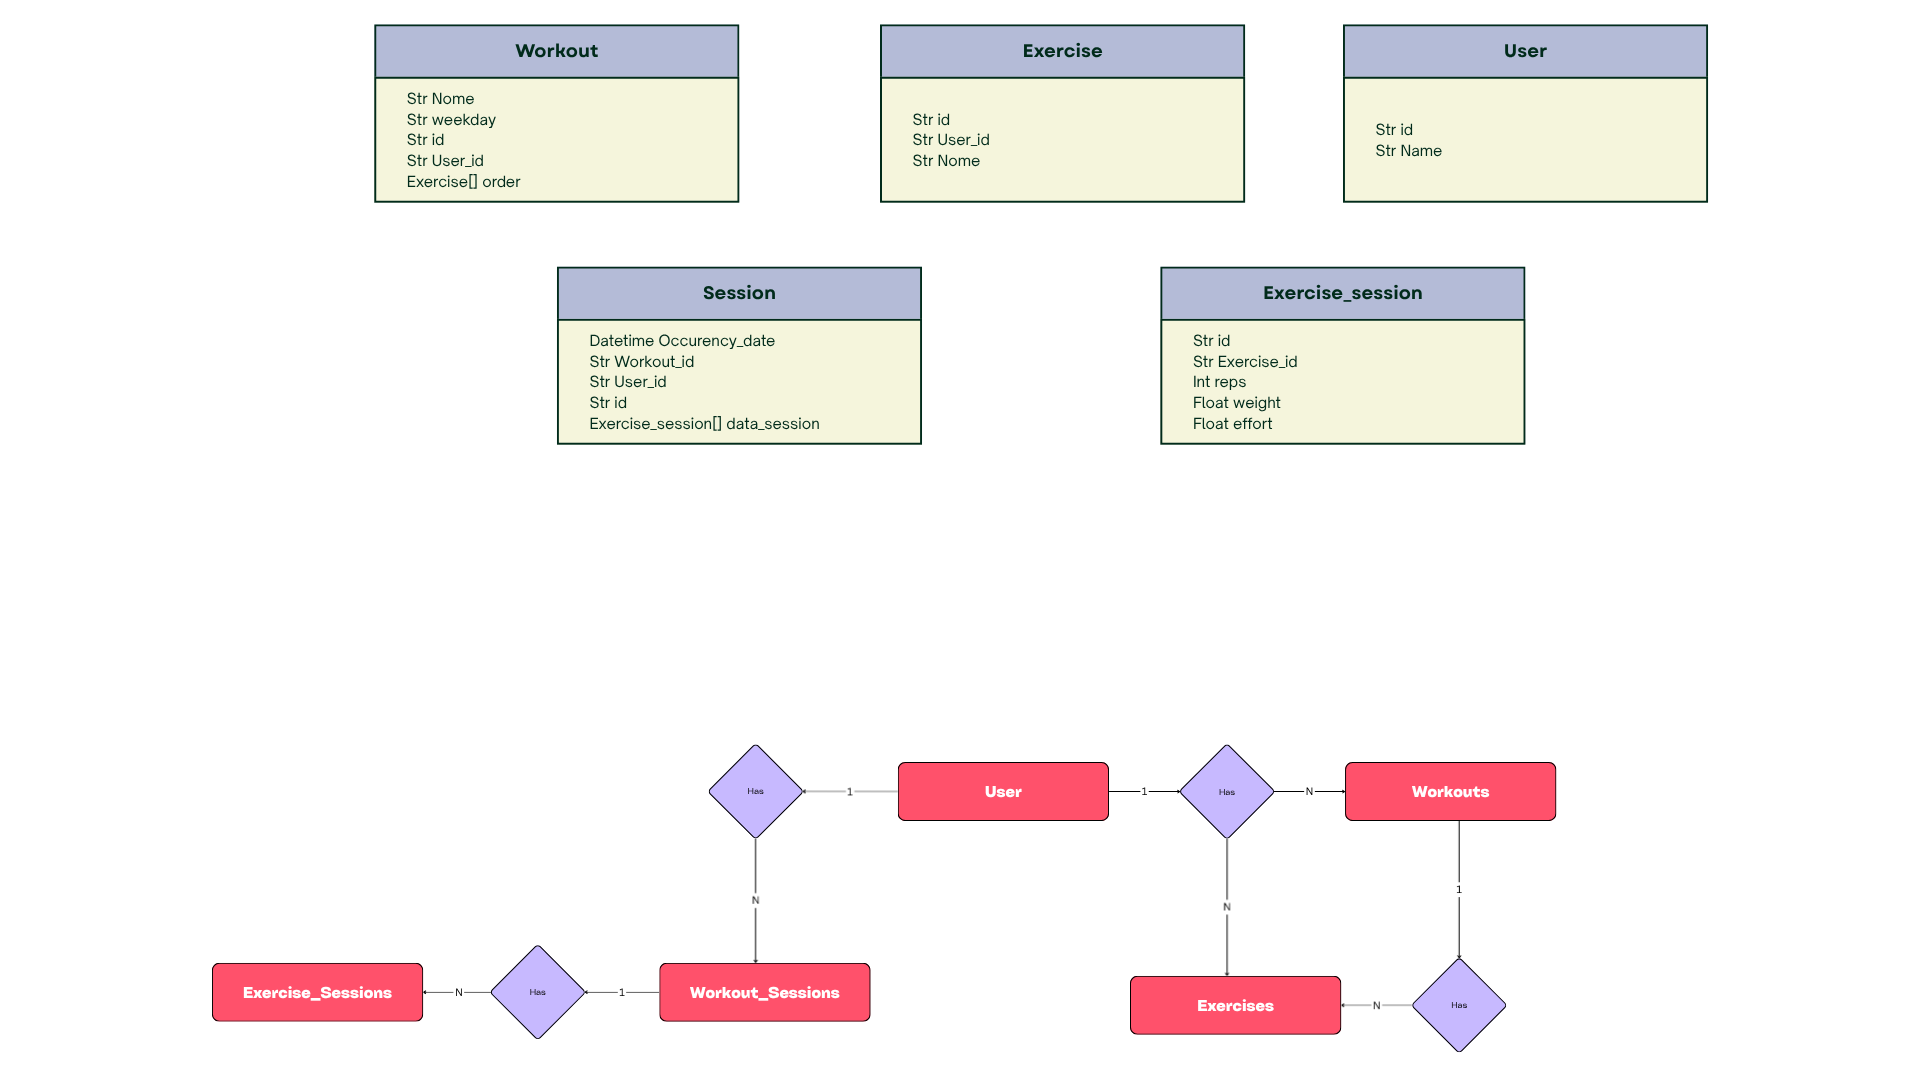
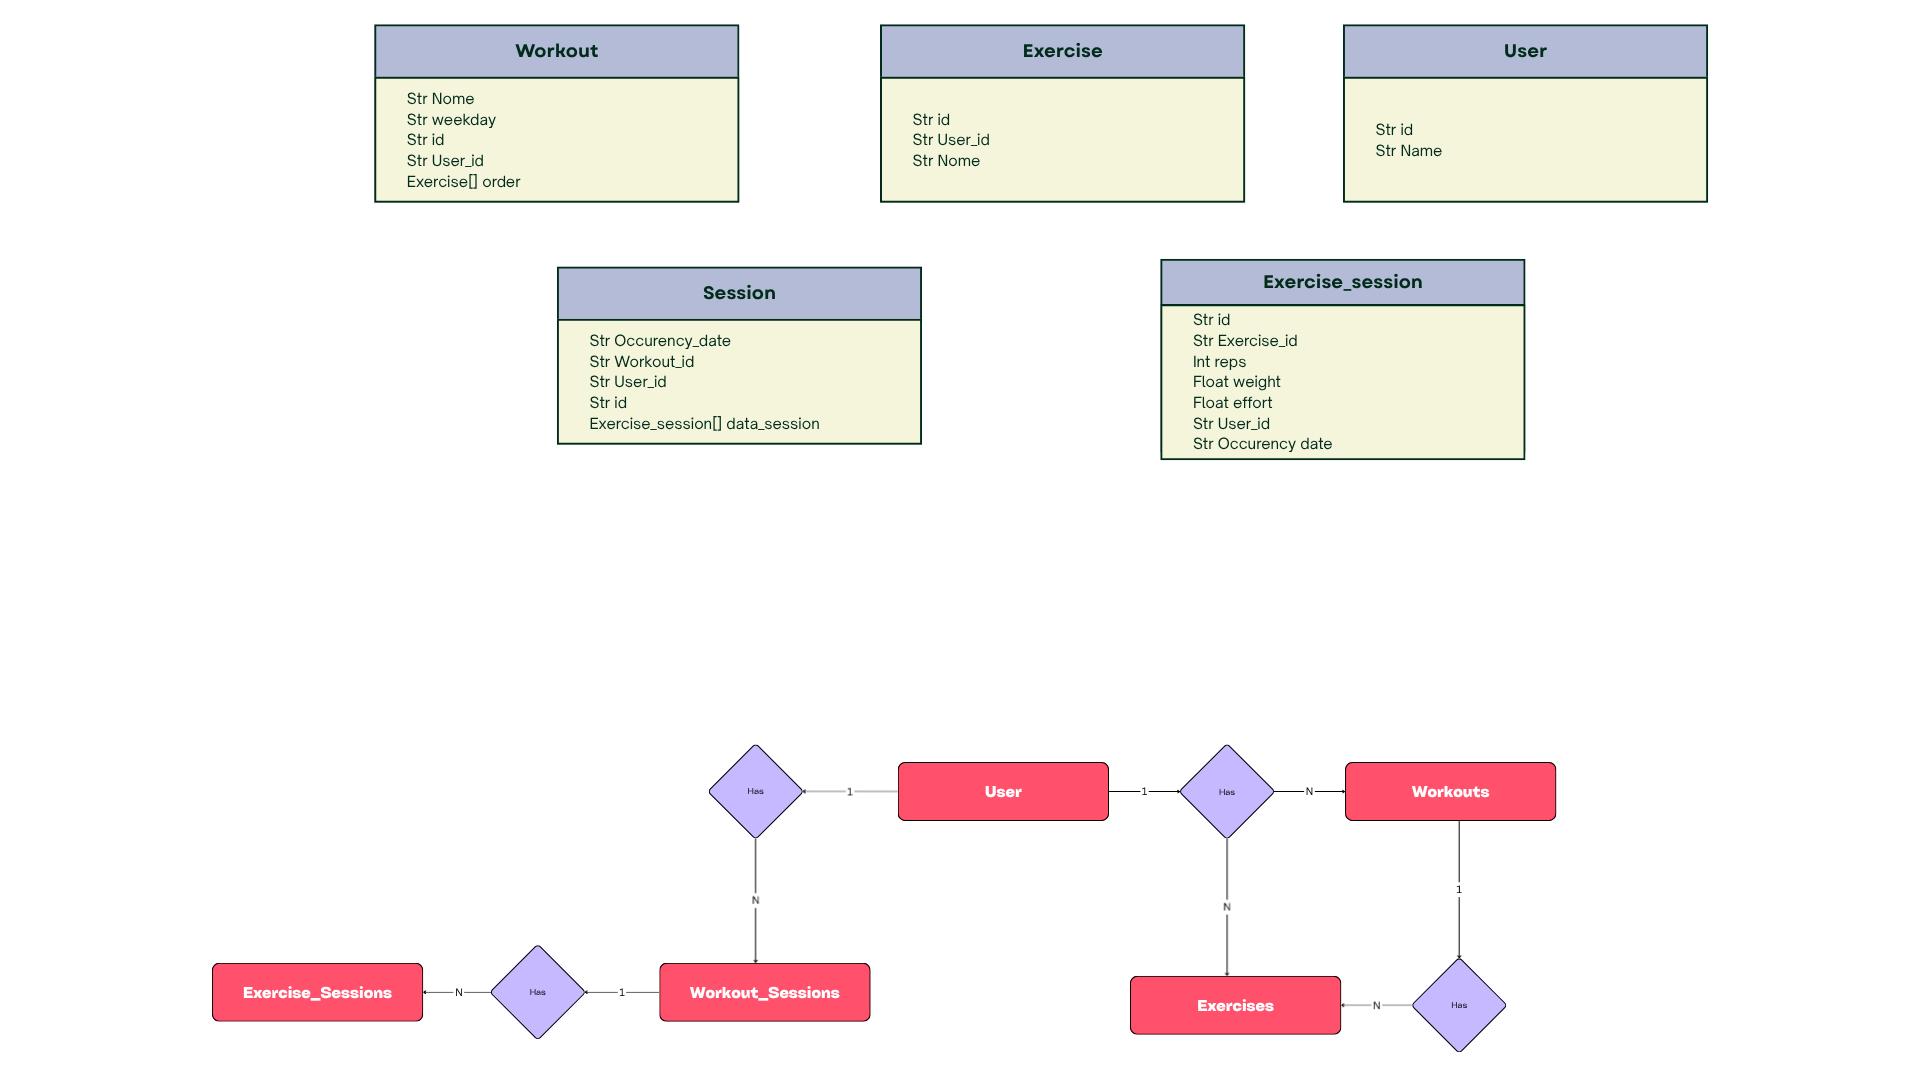
feat: criação dos models, inicialização dos controllers e atualização nos docs

Changed region(s): [[0.5938, 0.2139, 0.8125, 0.4278], [0.3125, 0.3056, 0.4062, 0.3361]]

diff --git a/backend/models/session.py b/backend/models/session.py
@@ -1,0 +1,76 @@
+from dataclasses import dataclass, field
+
+@dataclass
+class ExerciseSessionModel():
+    Exercise_id: str
+    Reps: int
+    Weight: float
+    Effort: float = field(init=False)       # O effort não precisa ser passado obrigatoriamente
+    id: str
+    User_id: str
+    Occurency_date: str
+
+    def __post_init__(self):
+        # Garantindo a regra de negócio do cálculo de Esforço
+        self.effort = self.weight * self.reps
+    
+    def to_dict(self):
+        return {
+            "Occurency_date": self.Occurency_date,
+            "Exercise_id": self.Exercise_id,
+            "Reps": self.Reps,
+            "Weight": self.Weight,
+            "Effort": self.Effort,
+            "id": self.id,
+            "User_id": self.User_id
+        }
+
+    @staticmethod
+    def from_dict(data: dict):
+        return ExerciseSessionModel(
+            Occurency_date=data.get("Occurency_date"),
+            Exercise_id=data.get("Exercise_id"),
+            Reps=data.get("Reps"),
+            Weight=data.get("Weight"),
+            Effort=data.get("Effort"),
+            id=data.get("id"),
+            User_id=data.get("User_id")
+        )
+
+@dataclass
+class SessionModel():
+    Occurency_date: str
+    Workout_id: str
+    User_id: str
+    id: str
+    Data_session: list[ExerciseSessionModel]
+    
+    def to_dict(self):
+        exs_list = []
+        if self.Data_session:
+            for exercise in self.Data_session:
+                exs_list.append(exercise.to_dict())
+
+        return {
+            "Occurency_date": self.Occurency_date,
+            "Workout_id": self.Workout_id,
+            "User_id": self.User_id,
+            "id": self.id,
+            "Data_session": exs_list
+        }
+
+    @staticmethod
+    def from_dict(data: dict):
+        exs_list = []
+        if data.get("Data_session"):
+            for exercise in data.get("Data_session"):
+                ex = ExerciseSessionModel.from_dict(exercise)
+                exs_list.append(ex)
+
+        return SessionModel(
+            Occurency_date=data.get("Occurency_date"),
+            Workout_id=data.get("Workout_id"),
+            User_id=data.get("User_id"),
+            id=data.get("id"),
+            Data_session=exs_list
+        )

diff --git a/backend/controllers/session_controller.py b/backend/controllers/session_controller.py
@@ -1,0 +1,44 @@
+from backend.models.session import SessionModel, ExerciseSessionModel
+from google.cloud import firestore
+
+class ExerciseSessionController():
+    def __init__(self, db_client: firestore.Client):
+        self.db = db_client
+        self.collection = self.db.collection("Exercise_Session")
+
+    def create_exercise_session(self, data: ExerciseSessionModel):
+        ## Realiza a verificação da existência de um exercício no banco
+        exist_exercise_id = self.db.collection("Exercise").document(data.Exercise_id).get()
+        if not exist_exercise_id.exists:
+            raise ValueError("Não existe exercício cadastrado com esse id.")
+
+        new_doc_ref = self.collection.document()
+        data.id = new_doc_ref.id
+        new_doc_ref.set(data.to_dict())
+
+        return data
+
+
+    ## Método para auxiliar na RF04 - gerar gráficos para um determinado exercício
+    def get_exercise_sessions(self, exercise_id: str, user_id: str):
+        sessions_stream = self.collection.where("Exercise_id", "==", exercise_id).where("User_id", "==", user_id).stream()
+        sessions = [session.to_dict() for session in sessions_stream]
+
+        if len(sessions) == 0:
+            raise ValueError("Não foi possível obter as sessões deste exercício")
+        
+
+        return sessions
+
+    def delete_exercise_session(self, session_id: str, user_id: str):
+        exercise_session = self.collection.document(session_id).get()
+        if not exercise_session.exists:
+            raise ValueError("Não existe sessão com esse id")
+
+        ## verificação de segurança
+        data = exercise_session.to_dict()
+        if data.get("User_id") != user_id:
+            raise PermissionError("Esse usuário não é permitido a realizar essa ação")
+
+        self.collection.document(session_id).delete()
+        return True

diff --git a/backend/models/exercise.py b/backend/models/exercise.py
@@ -18,3 +18,5 @@ class ExerciseModel():
             name=data.get("Name"),
             user_id=data.get("User_id")
         )
+
+## TODO: Refatorar esse model para usar dataclass

diff --git a/backend/models/workout.py b/backend/models/workout.py
@@ -45,3 +45,5 @@ class WorkoutModel():
             user_id=data.get("User_id"),
             exs_order=exs_list
         )
+
+## TODO: Refatorar esse model para usar dataclass
